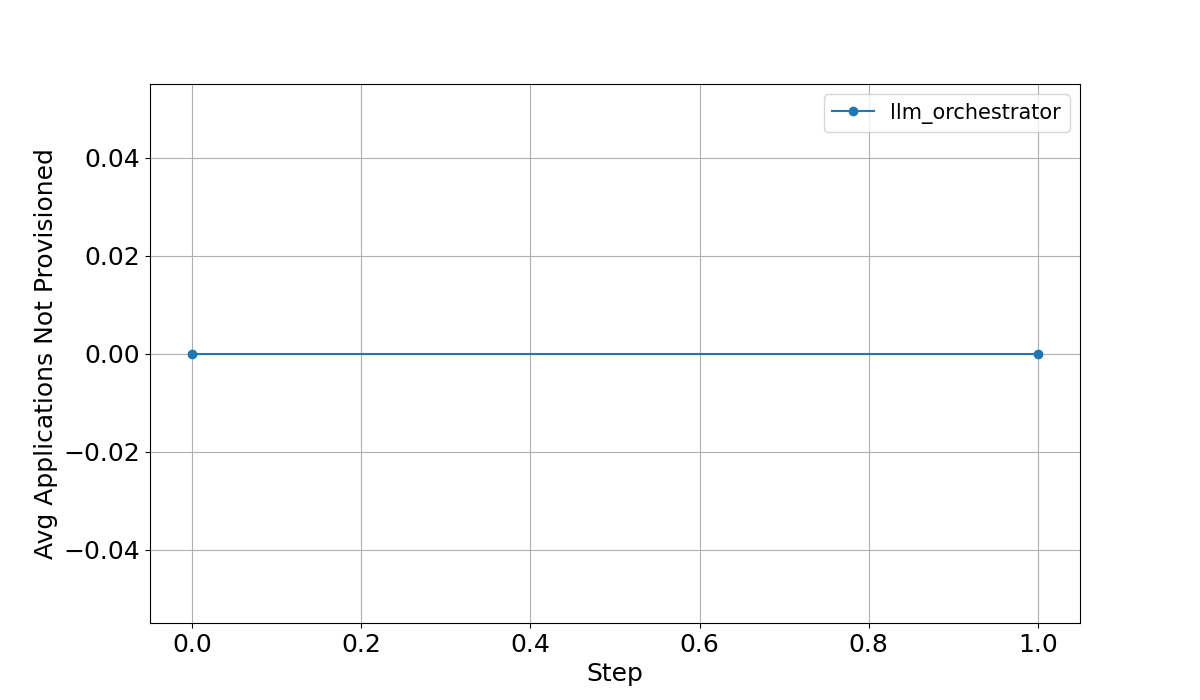
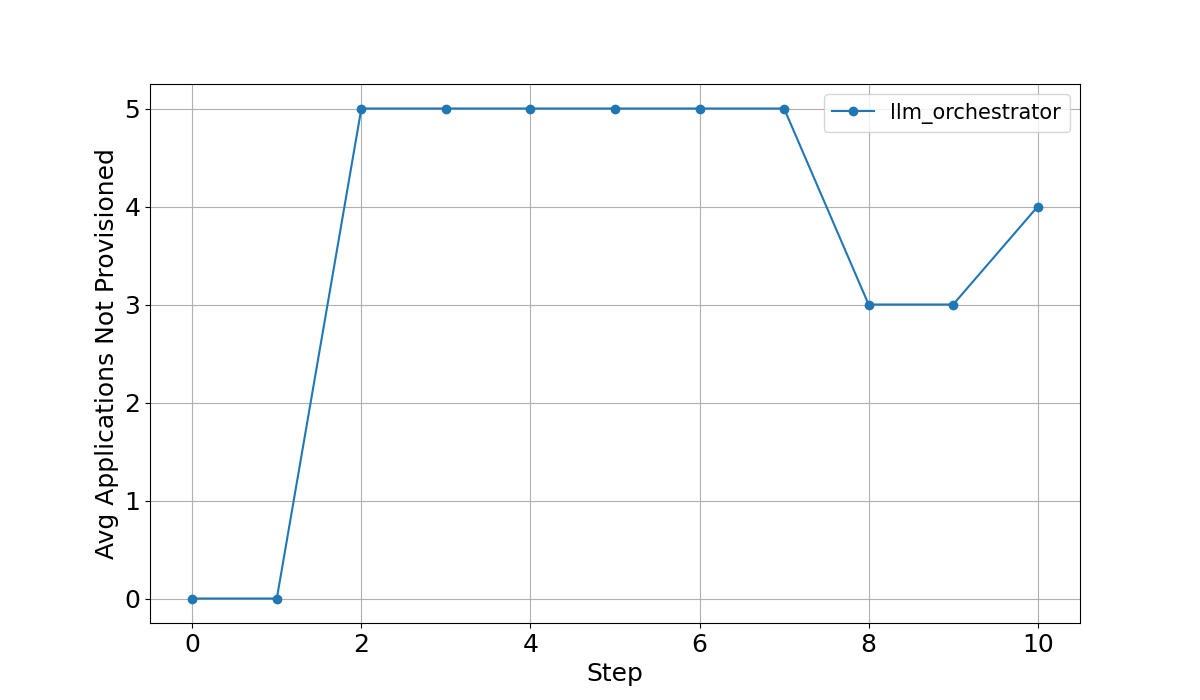
[REFACTOR] Improve agentic_label

diff --git a/leosim/components/allocation_algorithms/llm_orchestrator.py b/leosim/components/allocation_algorithms/llm_orchestrator.py
@@ -1,4 +1,5 @@
 import os
+from json import dump
 from agno.agent import Agent
 from agno.models.ollama import Ollama
 
@@ -49,8 +50,7 @@ offloading_agent = Agent(
         "2. Choose the best algorithm based on the source code logic provided above.",
         "3. Call 'apply_offloading_strategy' with the chosen strategy_name.",
     ],
-    markdown=True,
-    debug_mode=True
+    markdown=True
 )
 
 def llm_orchestrator(model, parameters):
@@ -59,8 +59,6 @@ def llm_orchestrator(model, parameters):
     from ..process_unit import ProcessUnit
     from ..application import Application
     from ..user import User
-
-    parameters = parameters or None
 
     current_state = f"""
     ### Current Simulation State
@@ -77,12 +75,13 @@ def llm_orchestrator(model, parameters):
         f"Current State:\n{current_state}\n\nApply the best heuristic.",
         expected_output="The result of the tool call only."
     )
-    
-    with open("llm_orchestrator_content.log", "a", encoding="utf-8") as log_file:
-        log_file.write(f"\n--- Step {model.scheduler.steps} ---\n")
-        log_file.write(f"LLM Response:\n{response.content}\n")
 
-    with open("logs/llm_orchestrator_debug.json", "a", encoding="utf-8") as log_file:
-        log_file.write(f'{{"Step": {model.scheduler.steps}, "Response": {response.to_dict()}}}\n')
+    output_data = {
+        "step": model.scheduler.steps,
+        "agent_response": response.to_dict()
+    }
+    
+    with open("logs/agent_log.json", "w", encoding="utf-8") as json_file:
+        dump(output_data, json_file, indent=4)
 
     print(response.content)
